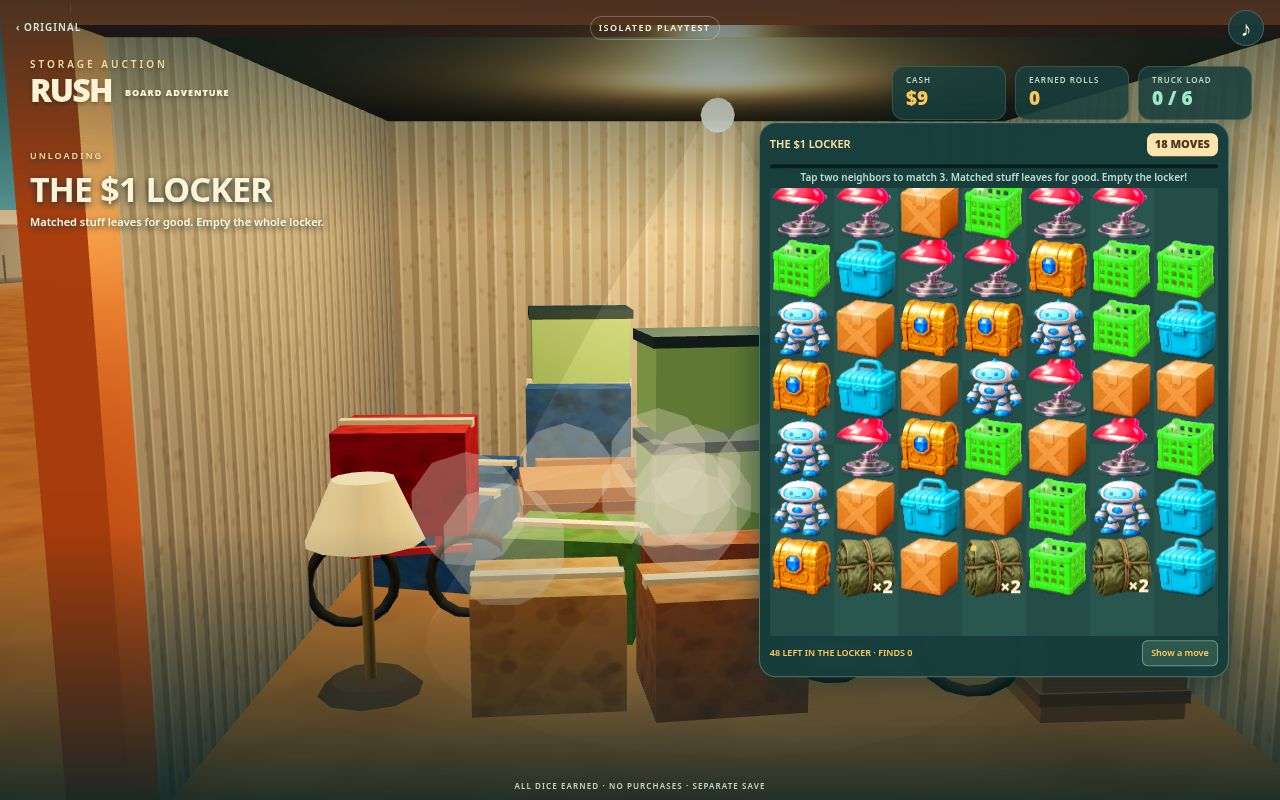
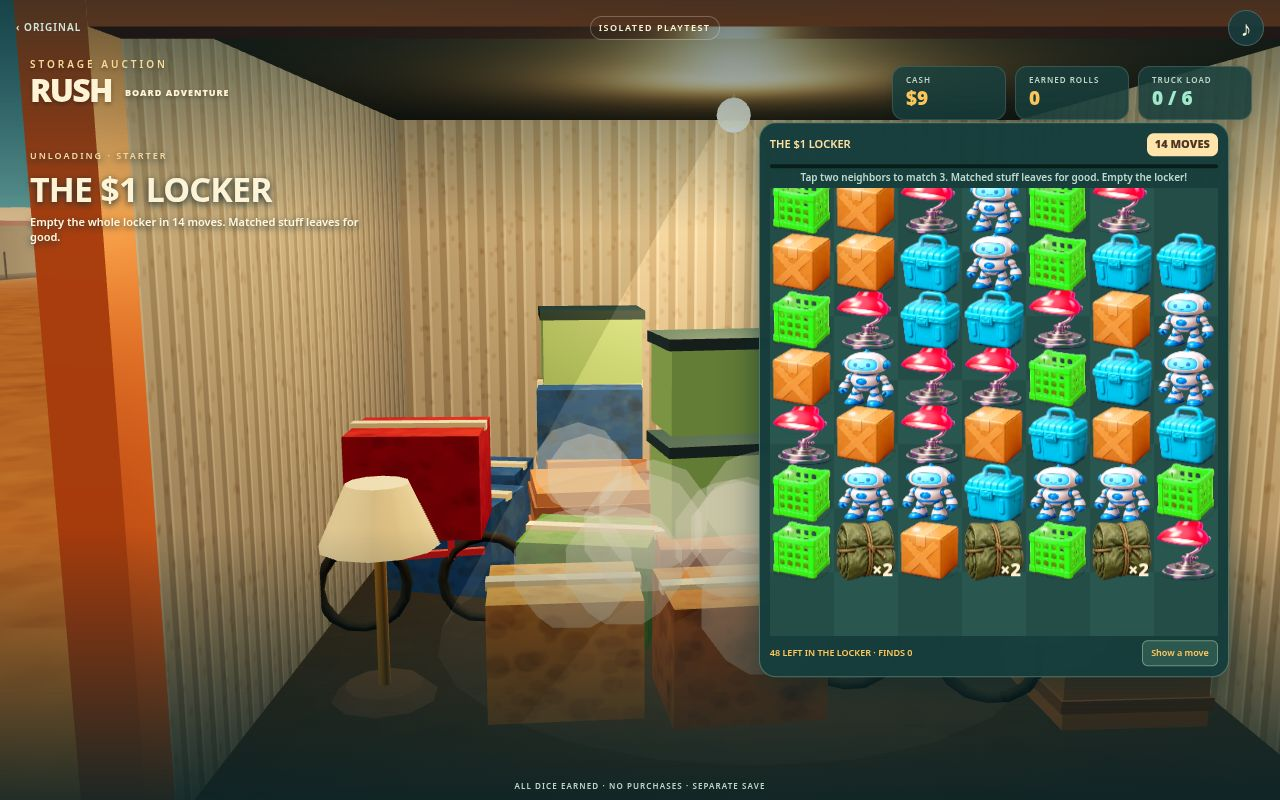
Board round 3: playtest fixes QA at 3 sizes, sim numbers, fresh shots

diff --git a/test/board-proto.js b/test/board-proto.js
@@ -64,9 +64,11 @@ for(const S of SIZES){const b=await puppeteer.launch({executablePath:'/usr/bin/g
   R.casePairWon=(await p.evaluate(()=>BP.debug.deck())).filter(c=>c.won).length===2;await snap('case-match');
   for(let t=0;t<5;t++){const d=await p.evaluate(()=>BP.debug.deck());const free=d.map((c,i)=>c.won?-1:i).filter(i=>i>=0);if(free.length<2)break;n=await p.$$('#modalBody .case');await n[free[0]].click();await sleep(250);n=await p.$$('#modalBody .case');await n[free[free.length-1]].click();await sleep(1100);if(await p.$('#modalBody [data-act=closeModal]'))break;}}
  await snap('case-match-end');await click('[data-act=closeModal]');await idle();
+ // perk: Day Off gives +2 moves to the next locker
+ await goto(2);await sleep(1800);await idle();R.perkAfterDayOff=(await st()).G.perk;
  // rival: Big Earl
  await p.evaluate(()=>BP.debug.set({cash:200}));await goto(8);await sleep(400);await snap('big-earl');for(let k=0;k<12;k++){if(await click('[data-act=earl][data-a=raise]')){await sleep(400);continue;}break;}
- await sleep(400);R.earl=await p.evaluate(()=>document.querySelector('#modalBody h2')?.innerText);await click('[data-act=closeModal]');await sleep(2500);s=await st();if(s.clean){await snap('earl-locker');await p.evaluate(()=>BP.debug.win());await p.waitForFunction(()=>BP.state().modal,{timeout:20000});await click('[data-act=closeModal]');}await idle();
+ await sleep(400);R.earl=await p.evaluate(()=>document.querySelector('#modalBody h2')?.innerText);await click('[data-act=closeModal]');await sleep(2500);s=await st();if(s.clean){await snap('earl-locker');{const e=await st();R.earlLocker={tier:e.tier,moves:e.moves,label:await p.evaluate(()=>document.getElementById('subtitle').innerText)};}await p.evaluate(()=>BP.debug.win());await p.waitForFunction(()=>BP.state().modal,{timeout:20000});await click('[data-act=closeModal]');}await idle();
  // curb pile: zero rolls
  await p.evaluate(()=>{BP.debug.set({rolls:0,pos:2});BP.debug.panel();});await sleep(600);await snap('curb-pile-never-stuck');R.curb=await p.evaluate(()=>!!document.querySelector('[data-act=curb]'));
  const fin=await p.evaluate(()=>BP.perf());R.heapMB=fin.heap?+(fin.heap/1048576).toFixed(1):null;R.rendererEnd=fin.info;R.session=fpsStats({f:fin.frames,c:fin.cpu});

diff --git a/board/QA-RESULTS.md b/board/QA-RESULTS.md
@@ -1,5 +1,44 @@
 # Board prototype — QA results (Nov 22, 2026, PT)
 
+## Round 3, ~1:30 AM PT Nov 23: playtest fixes (3 reviewers, each 6/10)
+1. **Moves now come from one place:** `LOCKER_TIERS` in `board/clearout.js`, which throws an error if a locker has no move count. The old LEVELS counts (28 and so on) no longer reach the board. Tiers:
+   - **Starter:** 5 types, 14 moves. First $1 locker and the Curb Pile.
+   - **Normal:** 6 types, 14 moves. Locker levels 2–4.
+   - **Tough:** 5 types, 13 moves. Level 5 and up.
+   - Big lockers and Big Earl's lockers count one tier higher.
+2. **You can now fail.** Out of moves with pieces left means the locker is not cleared. Choose "Keep what you got" (your finds + half salvage, **no roll**) or "Retry free" (fresh layout; the bid is never charged again). A warning shows at 5 and 3 moves left (red pulsing badge + tip).
+3. **Simulated players** (`node test/board-sim.js 500`, 500 grids per tier). "Average" = best move half the time, a random legal move the other half.
+
+| Tier | Random player clear | Average clear | Skilled clear | Average: moves left when cleared | Average: share finishing with 0–3 left |
+|---|---|---|---|---|---|
+| Starter (5 types / 14) | 88% | 90% | 96% | 0:42 1:148 2:141 3:80 4:27 5:10 6:2 | 91% |
+| Normal (6 / 14) | 76% | 84% | 89% | 0:79 1:194 2:105 3:27 4:11 5:2 | 97% |
+| Tough (5 / 13) | 58% | 73% | 84% | 0:103 1:134 2:85 3:32 4:11 5:1 | 97% |
+
+A failed attempt leaves about 3–5 pieces. Starter is kept a bit easier on purpose, since it is the first locker.
+
+4. **Paid locker survives a reload:** the grid, moves, finds and salvage are saved in `storageRush.board.v1` after every move. QA made a move, reloaded and came back to the same locker (13 moves, 45 left, cash unchanged) at all 3 sizes.
+5. **Full truck:** a find is reported as "truck full: sold at curb price +$X", both in the on-grid message and in the summary. QA filled the truck to 6/6: "Tin Robot … truck full: sold at curb price +$5".
+6. **Case Match:** six different prizes (🪙 $, 💵 $, 💰 $, item, 🎲 +1 roll, ⭐ +1 move), each showing its icon plus a label. Matching uses that same icon and label, so cases that look alike always match. QA confirmed exactly 2 of each and that a real pair matches.
+7. **Shove and haul are explained** the first time each happens (one line in the grid tip + a message).
+   - **Locker perks, earned only:**
+     - Day Off: +2 moves on the next locker.
+     - Truck upgrade: +1 move in every locker, per level.
+     - Case Match ⭐: +1 move on the next locker.
+     - Rested-crew moves cap at +3.
+     - Flea stall level 1 and up: regulars tell you which finds are under the tarps, and the tarps show a faint icon.
+   - Still exactly 1 roll per fully cleared locker. The old fast-clear bonus roll was removed.
+   - QA: after Day Off, Big Earl's Tough locker showed "15 moves (+2 rested crew)", or 16 with the ⭐.
+
+| Size | First 3D frame ms | Load ms | Board FPS avg/1% | Match-3 FPS avg/1% | Frame JS median/p99 ms | Tap→frame median/p95 ms | Heap MB | First locker |
+|---|---|---|---|---|---|---|---|---|
+| 390x844 (4× CPU) | 717 | 1619 | 23.6 / 7.2 | 21.1 / 5.7 | 2.7 / 23.6 | 123 / 210 | 16.7 | cleared by taps, 2 moves to spare |
+| 375x667 (4× CPU) | 648 | 1485 | 28.4 / 9.3 | 28.4 / 9.2 | 2.3 / 14.7 | 79 / 153 | 17.5 | cleared by taps, 2 to spare |
+| 1280x800 | 714 | 1727 | 6.6 / 3.6 | 6.6 / 2.8 | 1.5 / 16.0 | 123 / 265 | 17.4 | cleared by taps, 2 to spare |
+
+0 errors and 0 failed requests; only `storageRush.board.v1` is used. Same no-GPU caveat as below: this box draws 3D in software.
+
+
 ## Re-run 10:40 PM PT after Mike's 10:25 PM change: no-refill clear-out
 Matched items now leave for good; nothing refills. The grid starts as sets of 3 (48 objects: 45 items + tarps) with 18 moves. If no move exists, a free shove packs the leftovers together. Stragglers that can't make a set get hauled out automatically. An empty grid is a cleared locker and earns the roll, with a "LOCKER EMPTY!" celebration. The 3D locker empties in step: progress = 1 − objects left / starting objects. Simulation: 300/300 grids cleared by a random-move player, in 12–14 moves.
 In QA the first locker was cleared by real taps at all 3 sizes, with 7 moves to spare and 4 free shoves.
